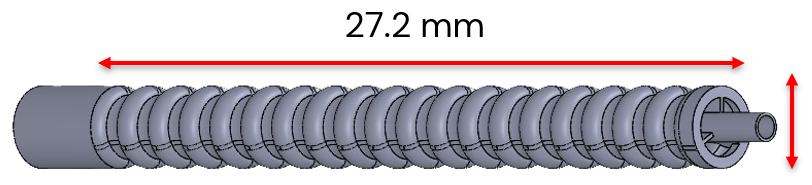
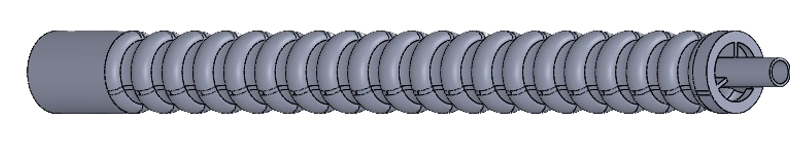
Expand exoskeleton page with progress photos; add unpublished-work notes; trim sensitive figures

diff --git a/_portfolio/01-assistive-hand-exoskeleton.md b/_portfolio/01-assistive-hand-exoskeleton.md
@@ -1,24 +1,58 @@
 ---
 title: "Assistive Hand Exoskeleton for Brachial Plexus Injury"
-excerpt: "Robotics and Mechatronics Laboratory, University of Miami · August 2026–present<br/>A hand exoskeleton that restores finger flexion and extension, with a computer-vision interface that recognizes objects and selects the grasp they need."
+excerpt: "Robotics and Mechatronics Laboratory, University of Miami · August 2026–present<br/>A hand exoskeleton that restores finger flexion and extension. We compare existing exoskeleton designs in simulation and with physical prototypes to choose the best approach, and pair the device with a gaze-based interface that predicts the grasp the user needs.<br/><img src='/images/portfolio/hand-exoskeleton/finger-module-render.jpg' alt='Render of a cable-driven finger module on a hand' style='max-width:420px;width:100%;margin-top:0.5em'>"
 collection: portfolio
 permalink: /portfolio/assistive-hand-exoskeleton/
 ---
 
 **Robotics and Mechatronics Laboratory, University of Miami** · Graduate Researcher · August 2026–present
 
-I lead the design and manufacturing of an assistive exoskeleton for patients with brachial plexus injury.
+<figure>
+  <img src="/images/portfolio/hand-exoskeleton/finger-module-render.jpg" alt="Render of a cable-driven finger module on a hand" style="max-width:640px">
+  <figcaption>Concept render of a cable-driven finger module.</figcaption>
+</figure>
 
-* **Actuation:** actuators on the dorsal side of the finger phalanges drive both flexion and extension.
-* **Mechanism benchmark:** comparing rigid and cable-driven mechanisms on mechanical advantage, force transmission, and joint range of motion.
-* **Intent prediction:** a model that automatically identifies the object in front of the user and the grasp type it requires. I am exploring a CNN-based detector for object identification and a recurrent or transformer model for grasp prediction.
-* **Grasp control:** integrated force sensors let the device apply the force needed to hold an object securely.
+I lead the design and manufacturing of an assistive hand exoskeleton for patients with brachial plexus injury (BPI), which damages the nerves running from the spinal cord down to the hand. The device drives finger flexion and extension from the back of the hand and uses force sensing to hold objects securely.
+
+Many hand exoskeleton designs have been published, but they are rarely compared under the same conditions. We compare existing designs side by side, first in simulation and then with physical prototypes, and use the results to choose the best approach for our own device.
+
+## What I am working on
+
+* **Simulation test bed:** a common simulation that models cable-driven and rigid-linkage designs on the same standard finger, so their joint range of motion, mechanical advantage and force transmission can be compared directly.
+* **Physical prototypes:** finger prototypes of the best-performing designs for bench testing, including a lead-screw linear actuator with Arduino control for the cable-driven design.
+* **Test setup:** a phantom finger and motion tracking markers for repeatable measurements, with metrics informed by clinicians and patients.
+* **Intent prediction:** a gaze-based interface that identifies the object the user is looking at and the grasp it requires. I am exploring a CNN-based detector for object identification and a recurrent or transformer model for grasp prediction.
+
+<figure>
+  <img src="/images/portfolio/hand-exoskeleton/kinematic-model.png" alt="Kinematic model of a linkage-driven finger exoskeleton" style="max-width:640px">
+  <figcaption>Kinematic model of a published linkage design, rebuilt in the simulation test bed.</figcaption>
+</figure>
+
+<figure>
+  <img src="/images/portfolio/hand-exoskeleton/actuator-bench-test.jpg" alt="Lead-screw linear actuator on the bench with an Arduino" style="max-width:640px">
+  <figcaption>Bench test of the lead-screw linear actuator that pulls and pushes the cable, driven from an Arduino.</figcaption>
+</figure>
 
 <figure>
   <img src="/images/portfolio/hand-exoskeleton/actuator-cad.jpg" alt="Linear actuator CAD model" style="max-width:640px">
   <figcaption>CAD model of a linear actuator module.</figcaption>
 </figure>
 
+<figure>
+  <img src="/images/portfolio/hand-exoskeleton/linkage-prototype.jpg" alt="Finger prototype of a rigid linkage design with tracking markers" style="max-width:640px">
+  <figcaption>Finger prototype of a rigid linkage design, with markers for tracking joint motion.</figcaption>
+</figure>
+
+<figure>
+  <img src="/images/portfolio/hand-exoskeleton/phantom-finger-cad.png" alt="CAD model of the phantom finger, straight and flexed" style="max-width:560px">
+  <figcaption>CAD model of the phantom finger used to test prototypes, shown straight and flexed.</figcaption>
+</figure>
+
+<figure>
+  <img src="/images/portfolio/hand-exoskeleton/gaze-hand-tracking.jpg" alt="Head-worn camera recording with eye gaze and hand tracking overlays" style="max-width:760px">
+  <figcaption>Recording for the intent prediction interface: head-worn camera video with eye gaze (magenta) and hand tracking overlaid.</figcaption>
+</figure>
+
 **Outputs:** poster at the [University of Miami College of Engineering Research Symposium](/talks/2026-10-01-um-coe-exoskeleton-benchmark) (October 2026).
 
-*More photos and results coming soon.*
+*This work is ongoing and not published yet, so this page is an overview. Some design details and results are left out, and I am happy to discuss them.*

diff --git a/_portfolio/05-soft-robotic-sphincterotome.md b/_portfolio/05-soft-robotic-sphincterotome.md
@@ -9,10 +9,11 @@ permalink: /portfolio/soft-robotic-sphincterotome/
 
 <figure>
   <img src="/images/portfolio/sphincterotome/cad.png" alt="CAD model of the soft robotic sphincterotome">
-  <figcaption>CAD model of the soft robotic sphincterotome (27.2 mm long).</figcaption>
+  <figcaption>CAD model of the soft robotic sphincterotome.</figcaption>
 </figure>
 
 * **Design:** a pneumatically actuated soft robotic sphincterotome for bile and pancreatic duct cannulation, with full omnidirectional motion and a maximum bending angle of 180° (compared with 155° for the conventional device).
+* **Control:** a handheld interface converts forces measured at a force sensor into pressures in the three pneumatic chambers, steering the tip toward a papilla phantom.
 * **Performance:** reduced targeting-task completion time by 58% relative to a conventional sphincterotome in benchtop evaluation.
 * **Iteration:** refined the design through CAD, finite element analysis, and additive manufacturing; built hyperelastic FEA models to locate the weak points driving burst failure.
 * **Optimization:** wrote a Python program (Pandas, NumPy, Matplotlib) implementing Taguchi design-of-experiments methods to guide future parameter optimization.
@@ -24,13 +25,10 @@ permalink: /portfolio/soft-robotic-sphincterotome/
 </figure>
 
 <figure>
-  <img src="/images/portfolio/sphincterotome/control-mapping.png" alt="Force-to-pressure control mapping">
-  <figcaption>Control mapping: forces measured at a handheld force sensor are converted into pressures in the three pneumatic chambers (P1–P3), steering the tip toward a papilla phantom.</figcaption>
-</figure>
-
-<figure>
   <img src="/images/portfolio/sphincterotome/fea.jpg" alt="Hyperelastic finite element model in Abaqus" style="max-width:600px">
   <figcaption>Hyperelastic finite element model in Abaqus, used to locate the weak points driving burst failure.</figcaption>
 </figure>
 
 **Outputs:** poster at the [PROPEL Research Symposium](/talks/2025-07-01-propel-soft-robotic-sphincterotome), Johns Hopkins University (July 2025).
+
+*This work is not published yet, so this page is an overview. Some design details and results are left out, and I am happy to discuss them.*

diff --git a/_portfolio/04-wearable-bioimpedance-cap.md b/_portfolio/04-wearable-bioimpedance-cap.md
@@ -28,9 +28,6 @@ permalink: /portfolio/wearable-bioimpedance-cap/
   <figcaption>Multi-layered head model built in Blender (brain, skull, scalp) and the corresponding physical phantom layers.</figcaption>
 </figure>
 
-<figure>
-  <img src="/images/portfolio/bioimpedance/frequency-sweep.png" alt="COMSOL frequency sweep results">
-  <figcaption>COMSOL simulation: relative impedance change versus stimulation frequency for different electrode montages, used to select the operating frequency and montage.</figcaption>
-</figure>
-
 **Outputs:** poster at the [Rice Summer Research Symposium](/talks/2026-07-01-rice-bioimpedance-cap) (July 2026) and a co-authored [paper in the *ASME Journal of Applied Mechanics*](/publication/2026-10-01-bioimpedance-signals-under-deformation) (October 2026).
+
+*The cap and head phantom work is not published yet, so this page is an overview. Some design details and results are left out, and I am happy to discuss them.*

diff --git a/_talks/2026-10-01-um-coe-exoskeleton-benchmark.md b/_talks/2026-10-01-um-coe-exoskeleton-benchmark.md
@@ -8,4 +8,4 @@ date: 2026-10-01
 location: "Coral Gables, FL"
 ---
 
-A benchmark comparison of rigid and cable-driven mechanisms for an assistive hand exoskeleton for patients with brachial plexus injury (BPI), developed in the Robotics and Mechatronics Laboratory at the University of Miami.
+A comparison of rigid and cable-driven mechanisms, in simulation and with physical prototypes, for an assistive hand exoskeleton for patients with brachial plexus injury (BPI), developed in the Robotics and Mechatronics Laboratory at the University of Miami.

diff --git a/_portfolio/02-active-perception-crowd-navigation.md b/_portfolio/02-active-perception-crowd-navigation.md
@@ -22,4 +22,4 @@ I work on the model of pedestrians the robot has not seen yet, which tells the t
 * Extend the field-of-view analysis to a robot that moves and turns, and to pedestrians hidden behind other pedestrians.
 * Measure the effect of these changes in the lab's tracking and navigation experiments.
 
-*Results and figures coming soon.*
+*This work is ongoing and not published yet, so this page is an overview. Some details and results are left out, and I am happy to discuss them.*

diff --git a/_portfolio/03-endoscopic-spine-surgery-robot.md b/_portfolio/03-endoscopic-spine-surgery-robot.md
@@ -12,4 +12,4 @@ I lead the design of a robot-assisted surgery platform for endoscopic spine surg
 * Designing the platform around separate manipulators for the endoscope and the surgical tools.
 * Developing a simulation of the platform to demonstrate the operating workflow.
 
-*Photos and results coming soon.*
+*This work is ongoing and not published yet, so this page is an overview. Some design details and results are left out, and I am happy to discuss them.*
